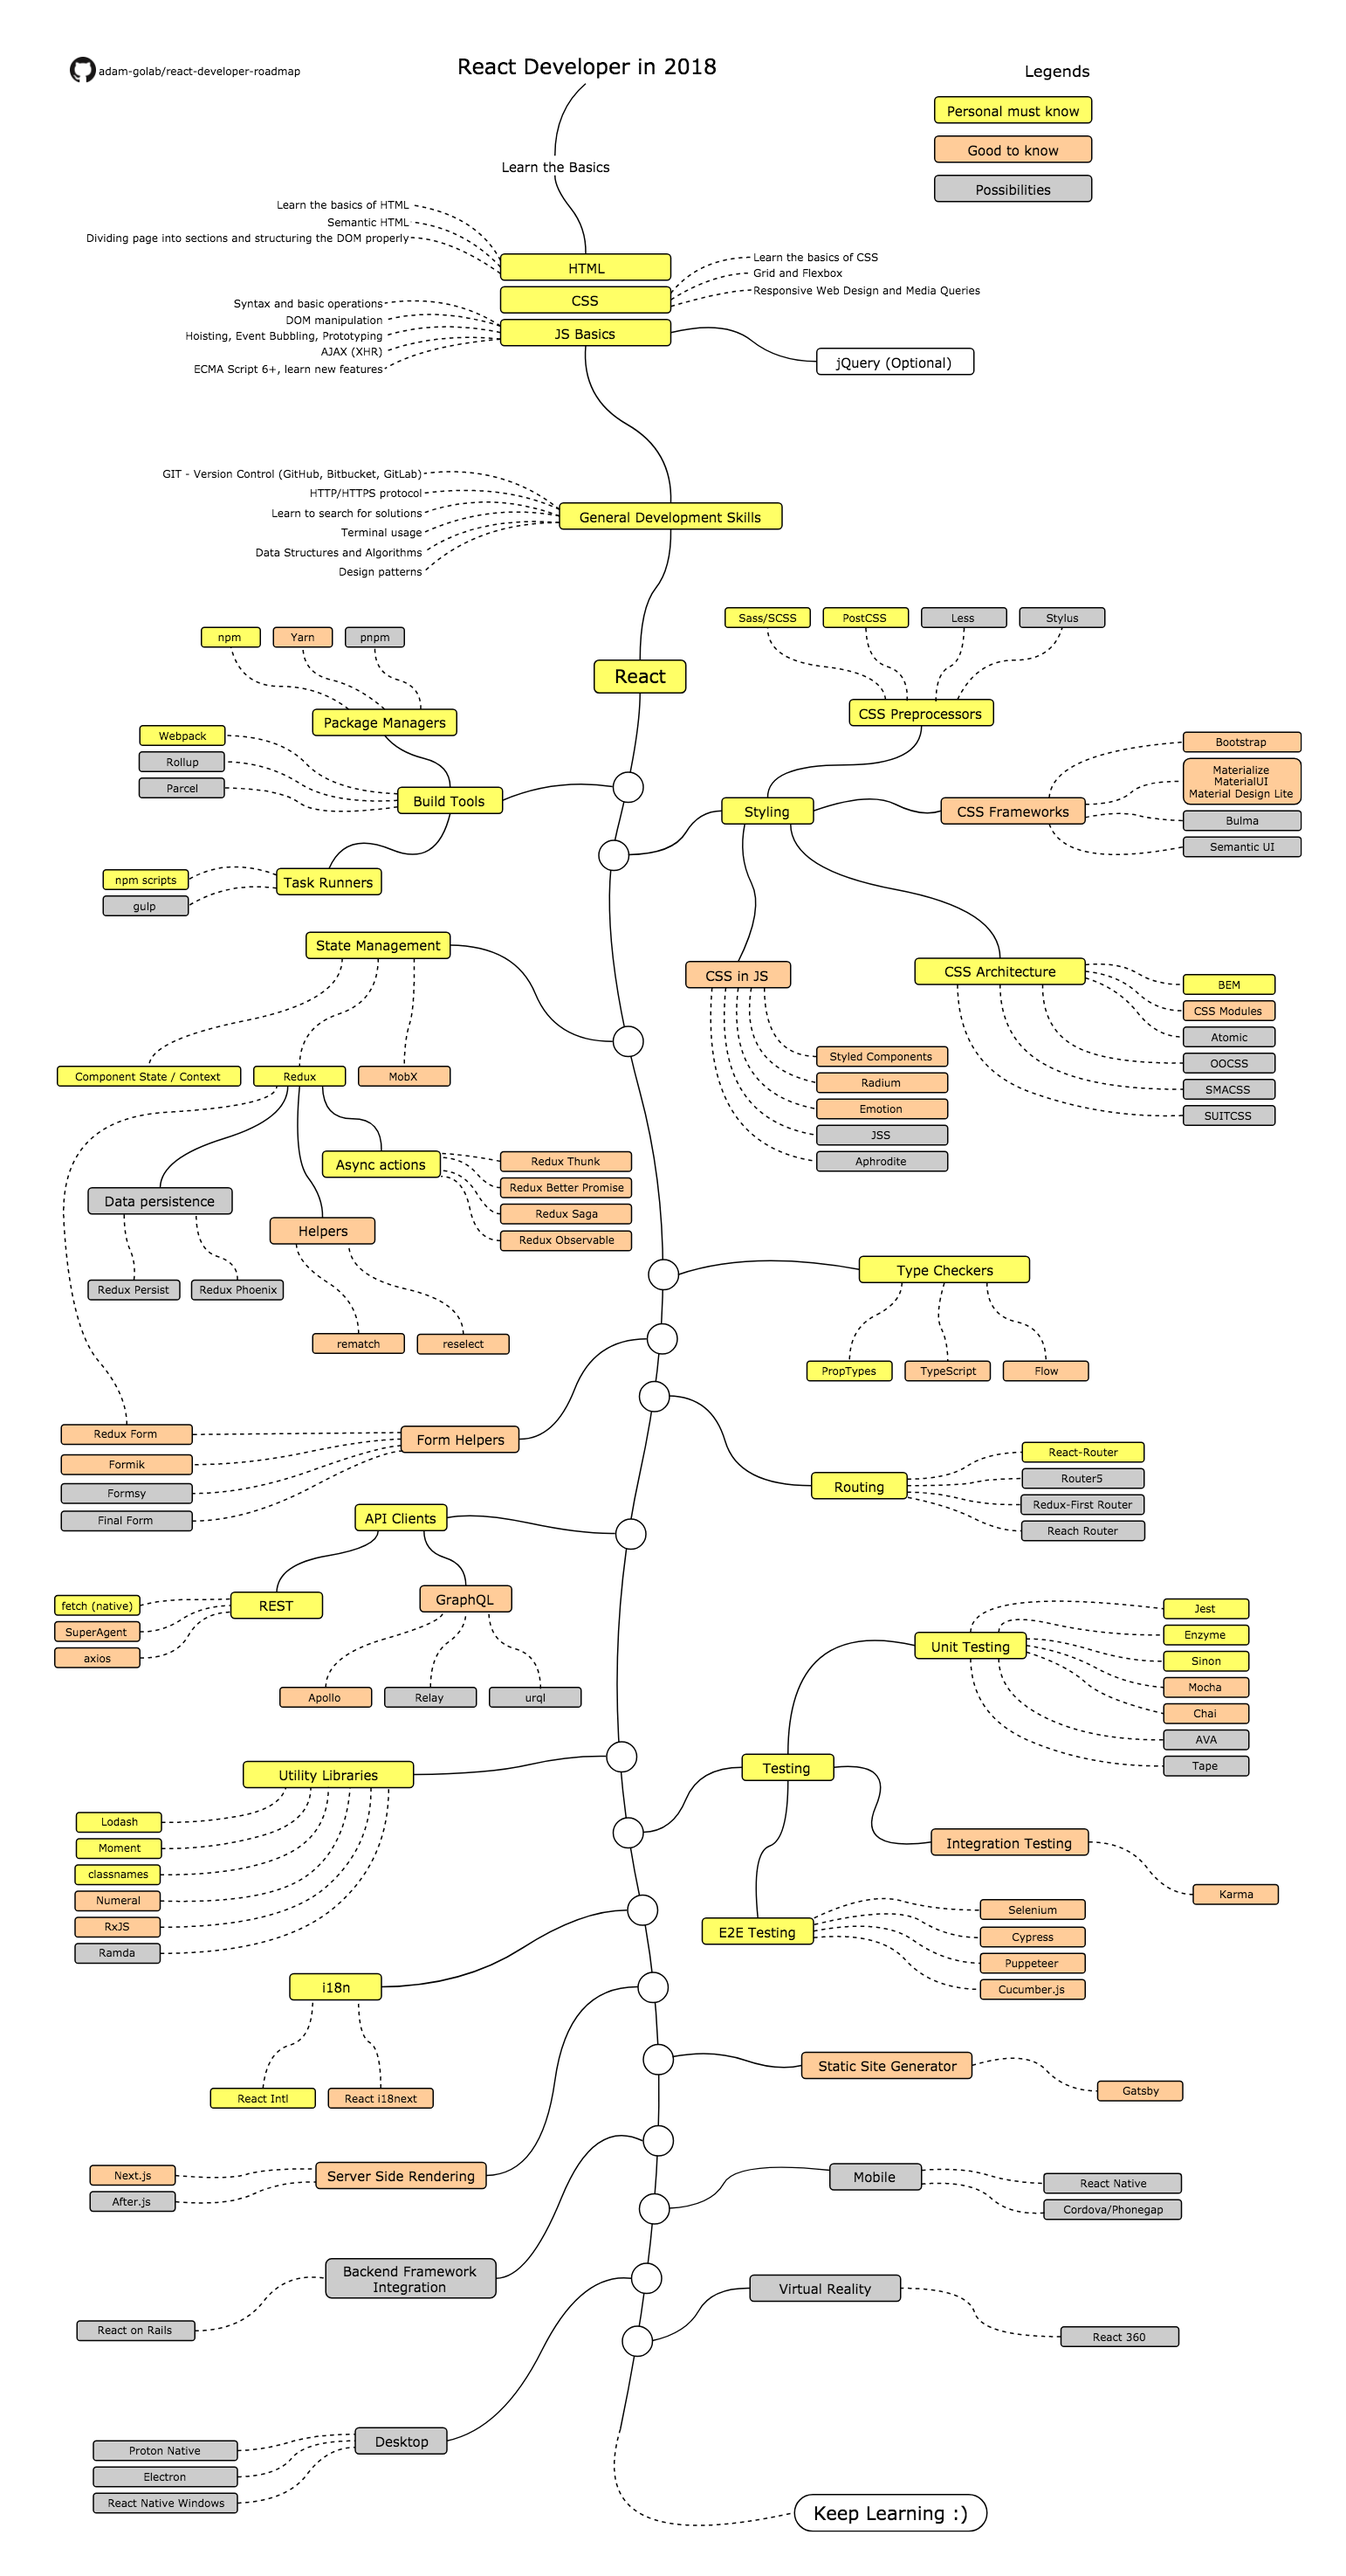
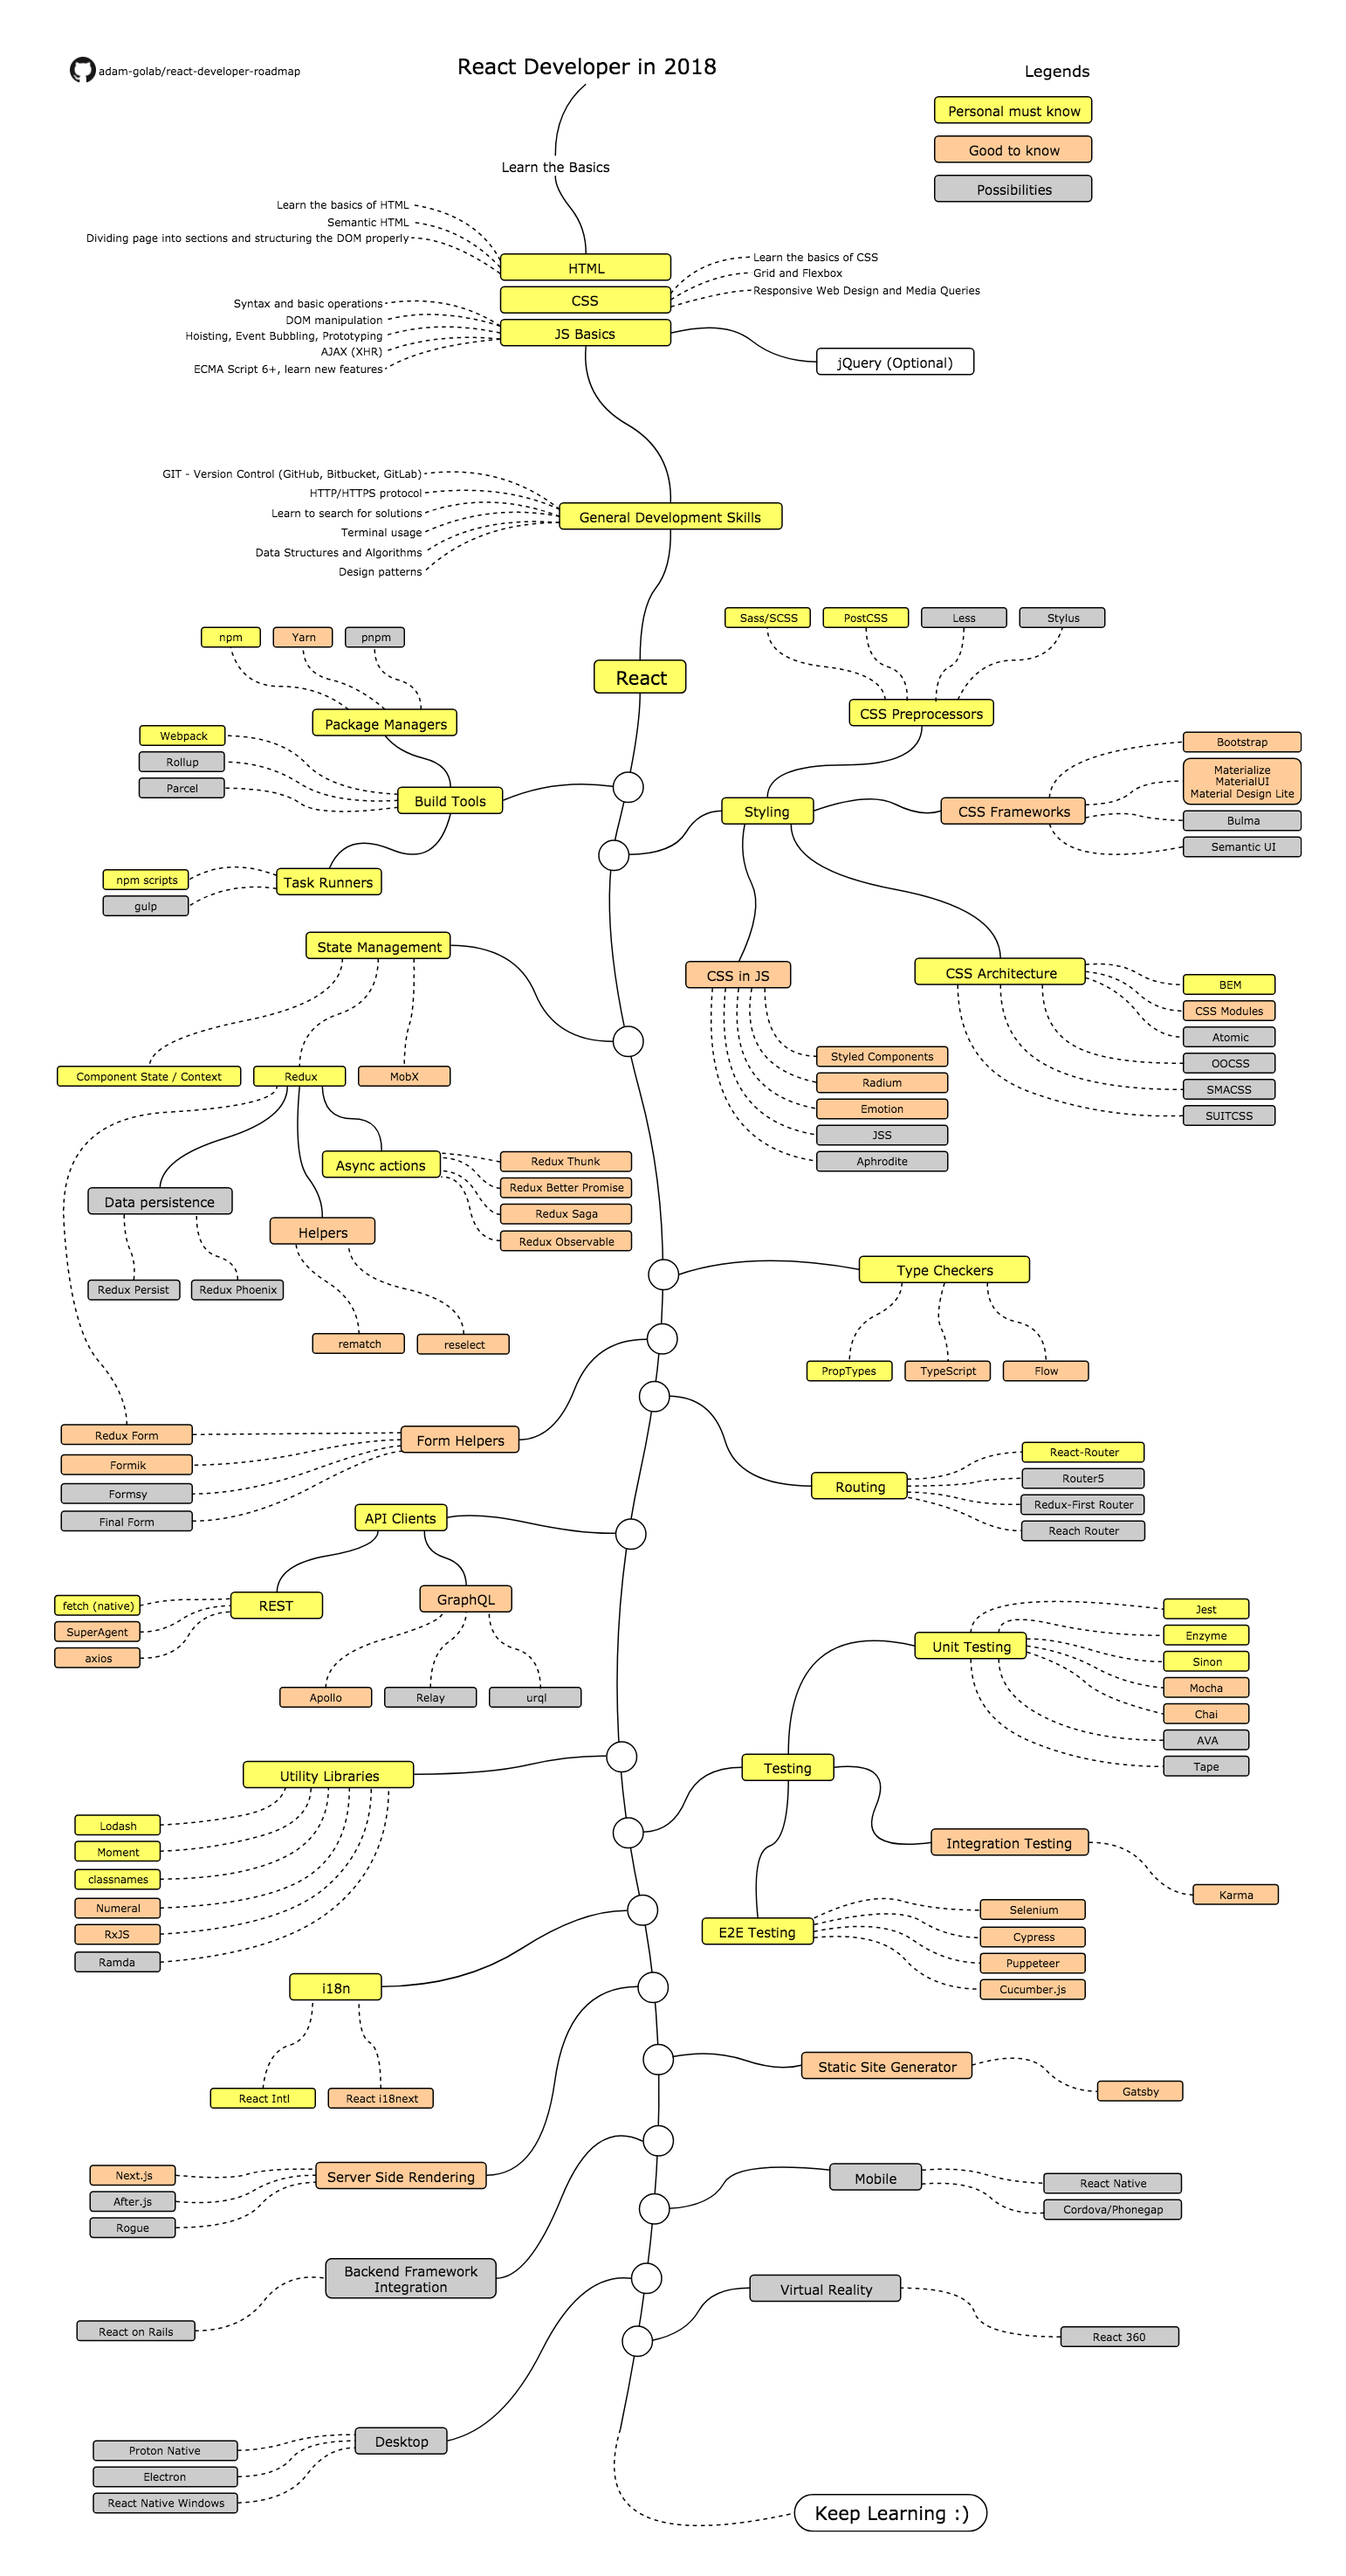
added rogue.js in ssr (#55)

diff --git a/README.md b/README.md
@@ -139,6 +139,7 @@ Below you can find a chart demonstrating the paths that you can take and the lib
 14. Server Side Rendering
     * [Next.js](https://nextjs.org/)
     * [After.js](https://github.com/jaredpalmer/after.js)
+    * [Rogue](https://github.com/alidcastano/rogue.js)
 15. Static Site Generator
     * [Gatsby](https://www.gatsbyjs.org/)
 16. Backend Framework Integration

diff --git a/README-CN.md b/README-CN.md
@@ -143,6 +143,7 @@
 14. 服务端渲染（SSR)
     - [Next.js](https://nextjs.org/)
     - [After.js](https://github.com/jaredpalmer/after.js)
+    - [Rogue](https://github.com/alidcastano/rogue.js)
 15. 静态网站生成器
     - [Gatsby](https://www.gatsbyjs.org/)
 16. 后端集成框架
